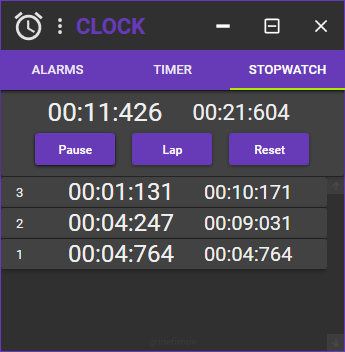
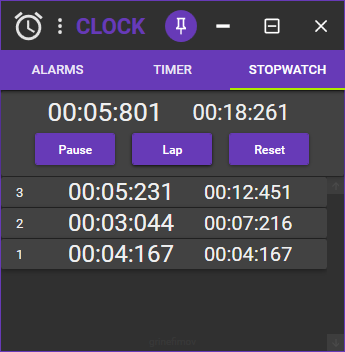
Add pin topmost button
* Add pin topmost button
* Change README

diff --git a/ClockApp/MainWindow.xaml b/ClockApp/MainWindow.xaml
@@ -43,6 +43,14 @@
                                          VerticalAlignment="Center" Name="Icon" />
                 <TextBlock Text="CLOCK" HorizontalAlignment="Left" VerticalAlignment="Center" FontSize="22"
                            Foreground="{DynamicResource PrimaryHueMidBrush}" Margin="75,0,0,0" FontWeight="Bold" />
+                <ToggleButton HorizontalAlignment="Left" VerticalAlignment="Center" Margin="164,0,0,0"
+                              Style="{StaticResource MaterialDesignActionToggleButton}"
+                              IsChecked="False" Click="PinTopmost">
+                    <materialDesign:PackIcon Kind="PinOutline" Height="20" Width="20" />
+                    <materialDesign:ToggleButtonAssist.OnContent>
+                        <materialDesign:PackIcon Kind="Pin" Height="20" Width="20" />
+                    </materialDesign:ToggleButtonAssist.OnContent>
+                </ToggleButton>
                 <Button HorizontalAlignment="Left" VerticalAlignment="Center" Background="{x:Null}"
                         BorderBrush="{x:Null}" Margin="196,0,0,0"
                         Click="MinimizeApp" ToolTip="Minimize">

diff --git a/ClockApp/MainWindow.xaml.cs b/ClockApp/MainWindow.xaml.cs
@@ -213,6 +213,11 @@ namespace ClockApp
             Player.Volume = Settings.AlarmVolume / 100;
             Player.Play();
         }
+
+        private void PinTopmost(object sender, RoutedEventArgs e)
+        {
+            this.Topmost = this.Topmost == false;
+        }
     }
 
     public class Serializer

diff --git a/README.md b/README.md
@@ -4,10 +4,13 @@
 ![screenshot2](/Images/screenshot2.png)
 ![screenshot3](/Images/screenshot3.png)
 ![screenshot4](/Images/screenshot4.png)
+![screenshot5](/Images/screenshot5.png)
+![screenshot6](/Images/screenshot6.png)
 
 Features:
 
 * Alarms music settings
 * Custom alarms and timers setup autosaving
 * Notifications on the bottom right of the screen
-* Minimizing in notification area
+* Minimize in notification area
+* Pin always on top
